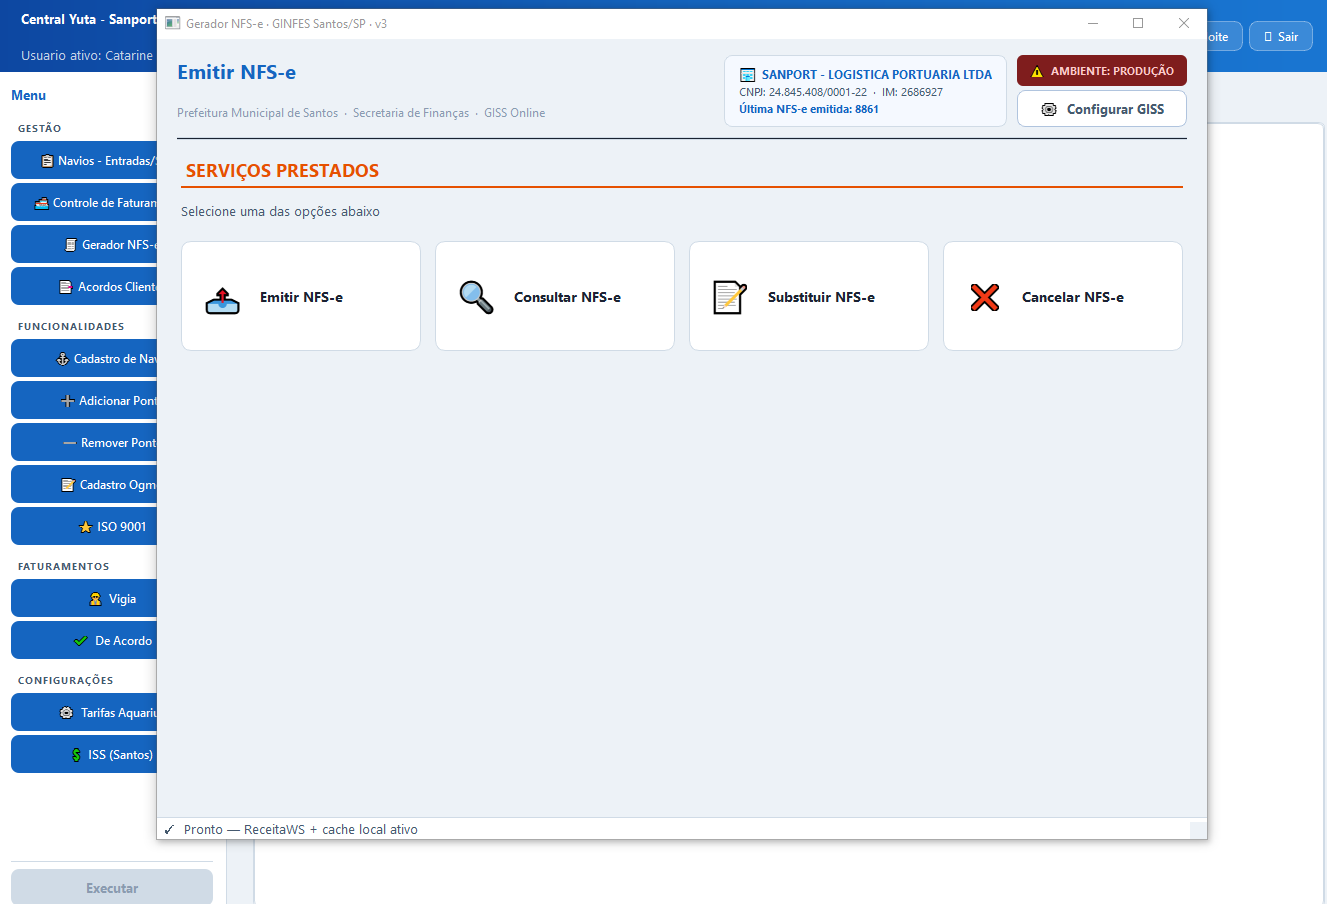
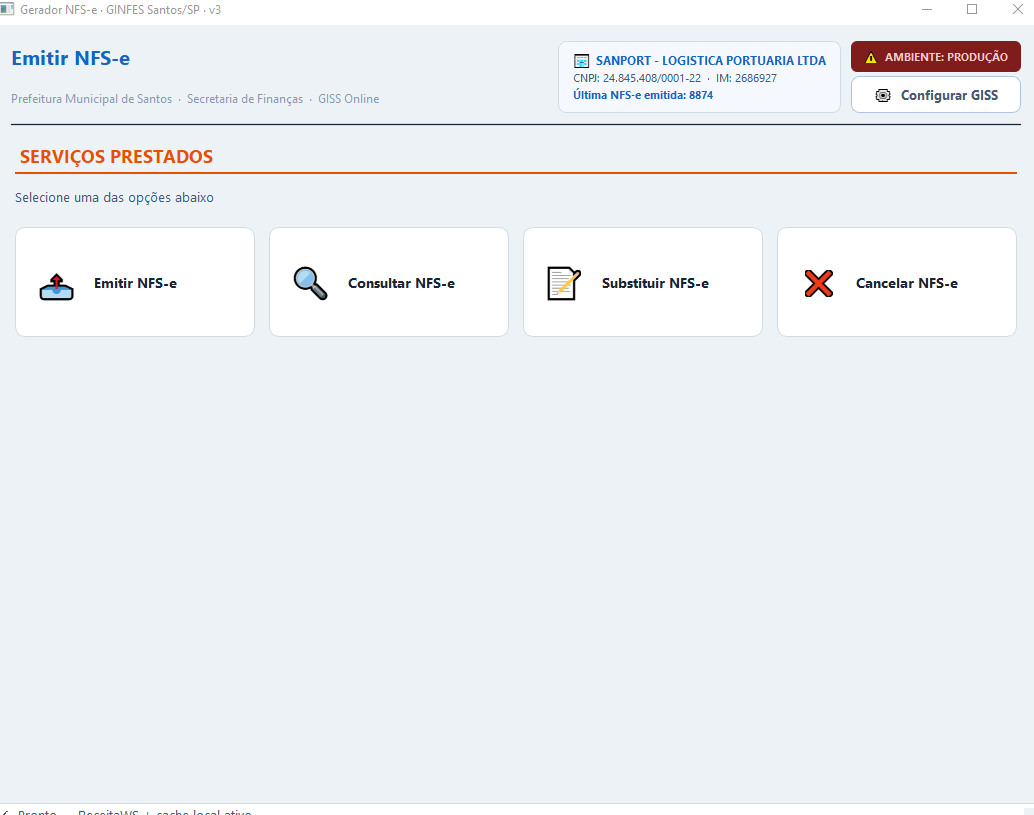
Yuta gallery: swap Central/old NFS-e for login, relatorio and new NFS-e shots

diff --git a/index.html b/index.html
@@ -2313,7 +2313,7 @@
 
       <div class="case-body">
         <!-- Apresentação: telas reais do sistema -->
-        <div class="case-shots" data-gallery="yuta" style="--shots:4; --shots-sm:2;">
+        <div class="case-shots" data-gallery="yuta" style="--shots:5; --shots-sm:2;">
           <figure class="case-mock shot-fig">
             <div class="mock-chrome win">
               <div style="display:flex;align-items:center;gap:8px;color:var(--fg);font-family:var(--mono);font-size:11px;">
@@ -2323,23 +2323,24 @@
               <div style="flex:1;"></div>
               <div class="winctl"><span>−</span><span>□</span><span>×</span></div>
             </div>
-            <div class="shot-frame" style="aspect-ratio:1326/902;" role="button" tabindex="0" aria-label="Ampliar tela do Yuta">
-              <img class="shot-stage-img" src="assets/yuta-central.png" alt="Central Yuta — menu de comandos com rotinas de gestão, funcionalidades, faturamentos e configurações" decoding="async">
+            <div class="shot-frame" style="aspect-ratio:1200/880;" role="button" tabindex="0" aria-label="Ampliar tela do Yuta">
+              <img class="shot-stage-img" src="assets/yuta-login.png" alt="Yuta — tela de login multiusuário com seleção de perfil e campo de senha" decoding="async">
               <span class="shot-zoom" aria-hidden="true">
                 <svg width="11" height="11" viewBox="0 0 24 24" fill="none" stroke="currentColor" stroke-width="2.2" stroke-linecap="round"><path d="M15 3h6v6M9 21H3v-6M21 3l-7 7M3 21l7-7"/></svg>
                 <span data-i18n="shots_zoom">Ampliar</span>
               </span>
             </div>
             <figcaption class="shot-caps">
-              <div class="shot-cap is-on"><b data-i18n="c2_s1_t">Central de comandos</b><span data-i18n="c2_s1_d">Todas as rotinas em um só lugar — gestão, cadastros, faturamentos e configurações. Cada botão dispara uma automação completa.</span></div>
+              <div class="shot-cap is-on"><b data-i18n="c2_s1_t">Login multiusuário</b><span data-i18n="c2_s1_d">Cada operador entra com seu próprio perfil e senha — toda ação no sistema fica registrada por usuário.</span></div>
               <div class="shot-cap"><b data-i18n="c2_s2_t">Entradas e saídas de navios</b><span data-i18n="c2_s2_d">Espelho digital da planilha operacional: busca por navio ou agência, filtros por período e status de cada requisição em tempo real.</span></div>
               <div class="shot-cap"><b data-i18n="c2_s3_t">Controle de faturamento</b><span data-i18n="c2_s3_d">Linha a linha: ETB, ETS, responsável, serviço, prazo e status de envio — tudo conferível antes de faturar, sem abrir o Excel.</span></div>
-              <div class="shot-cap"><b data-i18n="c2_s4_t">Emissor de NFS-e</b><span data-i18n="c2_s4_d">Emissão, consulta, substituição e cancelamento de NFS-e direto no GISS Online da Prefeitura de Santos — em ambiente de produção.</span></div>
+              <div class="shot-cap"><b data-i18n="c2_s4_t">Relatórios por cliente</b><span data-i18n="c2_s4_d">Ranking de clientes por faturamento, lucro ADM, valores a receber e pontos — filtros por métrica, mês, ano e cliente, com gráfico atualizado na hora.</span></div>
+              <div class="shot-cap"><b data-i18n="c2_s5_t">Emissor de NFS-e</b><span data-i18n="c2_s5_d">Emissão, consulta, substituição e cancelamento de NFS-e direto no GISS Online da Prefeitura de Santos — em ambiente de produção.</span></div>
             </figcaption>
           </figure>
           <div class="shot-thumbs" role="tablist" aria-label="Telas do Yuta">
-            <button type="button" class="shot-thumb is-on" role="tab" aria-selected="true" data-full="assets/yuta-central.png" data-alt="Central Yuta — menu de comandos com rotinas de gestão, funcionalidades, faturamentos e configurações">
-              <img src="assets/yuta-central.png" alt="" loading="lazy" decoding="async"><span data-i18n="c2_s1_tab">Central</span>
+            <button type="button" class="shot-thumb is-on" role="tab" aria-selected="true" data-full="assets/yuta-login.png" data-alt="Yuta — tela de login multiusuário com seleção de perfil e campo de senha">
+              <img src="assets/yuta-login.png" alt="" loading="lazy" decoding="async"><span data-i18n="c2_s1_tab">Login</span>
             </button>
             <button type="button" class="shot-thumb" role="tab" aria-selected="false" data-full="assets/yuta-entradas-saidas.png" data-alt="Yuta — controle de entradas e saídas de navios com filtros por período e status de requisição">
               <img src="assets/yuta-entradas-saidas.png" alt="" loading="lazy" decoding="async"><span data-i18n="c2_s2_tab">Navios</span>
@@ -2347,8 +2348,11 @@
             <button type="button" class="shot-thumb" role="tab" aria-selected="false" data-full="assets/yuta-tabela-envios.png" data-alt="Yuta — tabela de faturamento com ETB, ETS, responsável, serviço, prazo e status de envio por navio">
               <img src="assets/yuta-tabela-envios.png" alt="" loading="lazy" decoding="async"><span data-i18n="c2_s3_tab">Faturamento</span>
             </button>
+            <button type="button" class="shot-thumb" role="tab" aria-selected="false" data-full="assets/yuta-relatorio.png" data-alt="Yuta — relatório com ranking de clientes por faturamento, lucro e recebimentos, com gráfico de barras">
+              <img src="assets/yuta-relatorio.png" alt="" loading="lazy" decoding="async"><span data-i18n="c2_s4_tab">Relatório</span>
+            </button>
             <button type="button" class="shot-thumb" role="tab" aria-selected="false" data-full="assets/yuta-nfse.png" data-alt="Yuta — gerador de NFS-e integrado ao GISS Online de Santos com emissão, consulta, substituição e cancelamento">
-              <img src="assets/yuta-nfse.png" alt="" loading="lazy" decoding="async"><span data-i18n="c2_s4_tab">NFS-e</span>
+              <img src="assets/yuta-nfse.png" alt="" loading="lazy" decoding="async"><span data-i18n="c2_s5_tab">NFS-e</span>
             </button>
           </div>
           <div class="shot-hint" data-i18n="shots_hint">Telas reais do sistema em produção — clique para ampliar</div>
@@ -2878,18 +2882,21 @@
       c2_result_b:'RESULTADO',
       c2_result_t:'Reduziu o tempo de geração de um faturamento completo de <b>horas para minutos</b>, com auditoria completa de envios fiscais ao GISS Online.',
 
-      c2_s1_t:'Central de comandos',
-      c2_s1_d:'Todas as rotinas em um só lugar — gestão, cadastros, faturamentos e configurações. Cada botão dispara uma automação completa.',
-      c2_s1_tab:'Central',
+      c2_s1_t:'Login multiusuário',
+      c2_s1_d:'Cada operador entra com seu próprio perfil e senha — toda ação no sistema fica registrada por usuário.',
+      c2_s1_tab:'Login',
       c2_s2_t:'Entradas e saídas de navios',
       c2_s2_d:'Espelho digital da planilha operacional: busca por navio ou agência, filtros por período e status de cada requisição em tempo real.',
       c2_s2_tab:'Navios',
       c2_s3_t:'Controle de faturamento',
       c2_s3_d:'Linha a linha: ETB, ETS, responsável, serviço, prazo e status de envio — tudo conferível antes de faturar, sem abrir o Excel.',
       c2_s3_tab:'Faturamento',
-      c2_s4_t:'Emissor de NFS-e',
-      c2_s4_d:'Emissão, consulta, substituição e cancelamento de NFS-e direto no GISS Online da Prefeitura de Santos — em ambiente de produção.',
-      c2_s4_tab:'NFS-e',
+      c2_s4_t:'Relatórios por cliente',
+      c2_s4_d:'Ranking de clientes por faturamento, lucro ADM, valores a receber e pontos — filtros por métrica, mês, ano e cliente, com gráfico atualizado na hora.',
+      c2_s4_tab:'Relatório',
+      c2_s5_t:'Emissor de NFS-e',
+      c2_s5_d:'Emissão, consulta, substituição e cancelamento de NFS-e direto no GISS Online da Prefeitura de Santos — em ambiente de produção.',
+      c2_s5_tab:'NFS-e',
       shots_hint:'Telas reais do sistema em produção — clique para ampliar',
       shots_zoom:'Ampliar',
 
@@ -3039,18 +3046,21 @@
       c2_result_b:'OUTCOME',
       c2_result_t:'Reduced the time to generate a full billing run from <b>hours to minutes</b>, with full audit of fiscal submissions to GISS Online.',
 
-      c2_s1_t:'Command center',
-      c2_s1_d:'Every routine in one place — management, registrations, billing and settings. Each button triggers a complete automation.',
-      c2_s1_tab:'Hub',
+      c2_s1_t:'Multi-user login',
+      c2_s1_d:'Each operator signs in with their own profile and password — every action in the system is logged per user.',
+      c2_s1_tab:'Login',
       c2_s2_t:'Vessel arrivals &amp; departures',
       c2_s2_d:'A digital mirror of the operational spreadsheet: search by vessel or agency, period filters and live request status.',
       c2_s2_tab:'Vessels',
       c2_s3_t:'Billing control',
       c2_s3_d:'Line by line: ETB, ETS, owner, service, deadline and submission status — everything checkable before billing, without opening Excel.',
       c2_s3_tab:'Billing',
-      c2_s4_t:'NFS-e issuer',
-      c2_s4_d:'Issue, query, replace and cancel NFS-e invoices directly at Santos City Hall’s GISS Online — in the production environment.',
-      c2_s4_tab:'NFS-e',
+      c2_s4_t:'Per-client reports',
+      c2_s4_d:'Client ranking by revenue, ADM profit, receivables and points — metric, month, year and client filters with a chart that updates instantly.',
+      c2_s4_tab:'Reports',
+      c2_s5_t:'NFS-e issuer',
+      c2_s5_d:'Issue, query, replace and cancel NFS-e invoices directly at Santos City Hall’s GISS Online — in the production environment.',
+      c2_s5_tab:'NFS-e',
       shots_hint:'Real screens from the system in production — click to enlarge',
       shots_zoom:'Enlarge',
 
